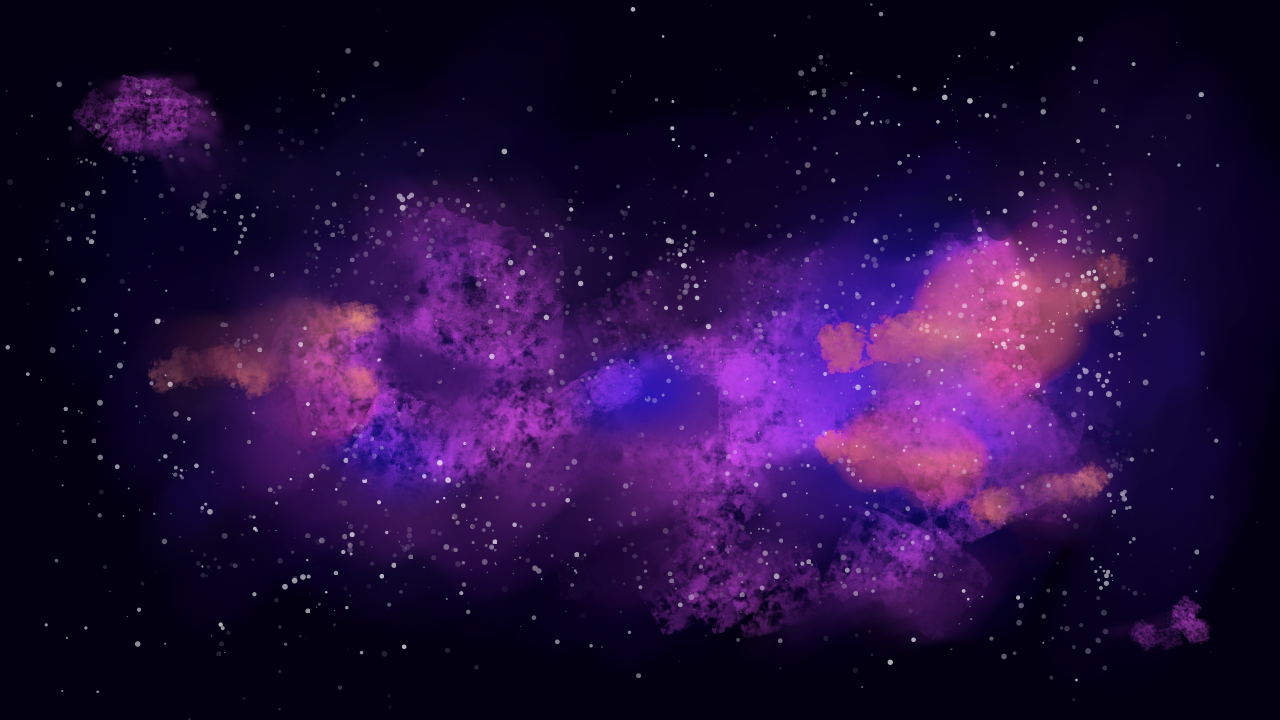
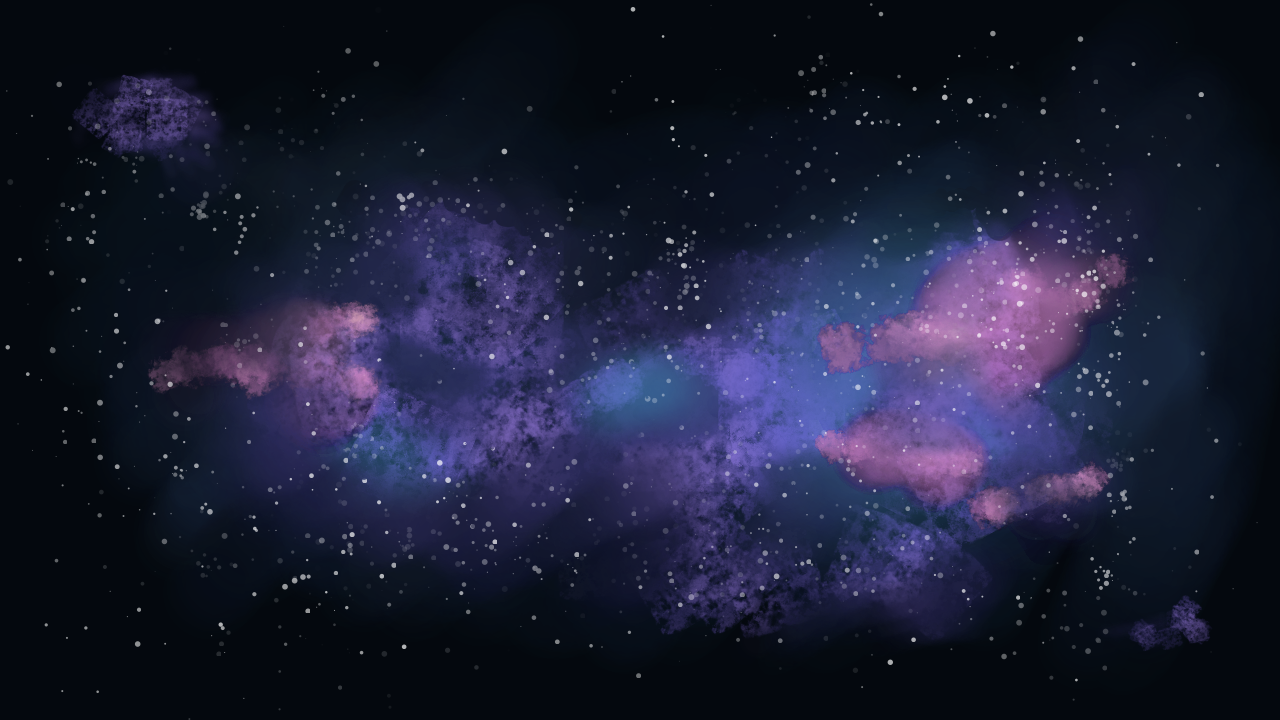
correct spritesheets and animation half done

Changed region(s): [[0.1875, 0.2444, 0.9375, 0.8861], [0.0625, 0.0917, 0.1875, 0.2139], [0.875, 0.825, 0.9375, 0.8861]]

diff --git a/index.html b/index.html
@@ -65,9 +65,12 @@ function audioLoadHelper(mLabelsToFileNames) {
 
 function preload() {
     // Sprites
-    game.load.image("purple", "assets/images/purple.png");
+    game.load.image("background", "assets/images/background.png");
+    game.load.spritesheet('blue', 'assets/spritesheet/bluefull.png', 33, 48);
+    game.load.spritesheet('purple', 'assets/spritesheet/purplefull.png', 33, 48);
+    // game.load.image("purple", "assets/images/purple.png");
+    // game.load.image("blue", "assets/images/blue.png");
     game.load.image("shippart", "assets/images/part1.png");
-    game.load.image("blue", "assets/images/blue.png");
     game.load.image("spark", "assets/spark.png");
     game.load.image("goal", "assets/images/goal.png");
 
@@ -77,6 +80,7 @@ function preload() {
 
 function create() {
     game.physics.startSystem(Phaser.Physics.P2JS);
+    game.add.sprite(0, 0, 'background');
     players.push(new Player('A', 'purple', game, 500, 500));
     players.push(new Player('B', 'blue', game, 100, 100));
 
@@ -270,6 +274,9 @@ class Player {
     **/
     constructor (cKey, sImageName, oGame, x, y) {
         this._sprite = game.add.sprite(x, y, sImageName);
+        this._sprite.animations.add('materialize', [0, 1, 2, 3, 4, 5, 6, 7, 8, 9, 10, 11], 10, false);
+        this._sprite.animations.add('dematerialize', [11, 12, 13, 14, 15, 16, 17, 18, 19, 20, 21, 22], 10, false);
+        this._sprite.frame = 11;
         game.physics.p2.enable(this._sprite);
         this._sprite.anchor.set(.5, 0.7);
         this._beam = null;
@@ -343,6 +350,7 @@ class Player {
             that._sprite.body.x = x;
             that._sprite.body.y = y;
             that._sprite.body.angle = angle;
+            that._sprite.animations.play('dematerialize');
 
             that._beam.destroy();
             that._beam = null;
